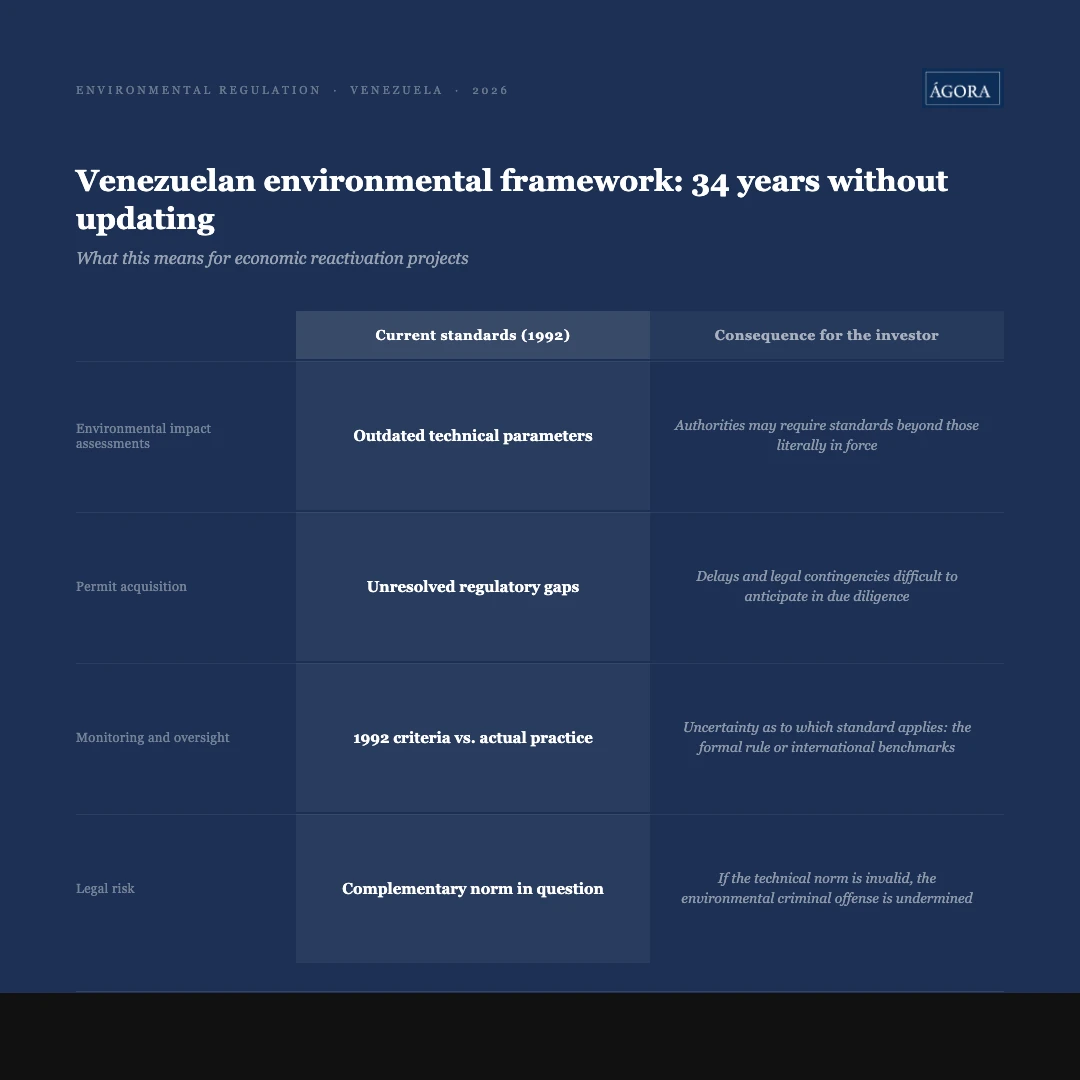
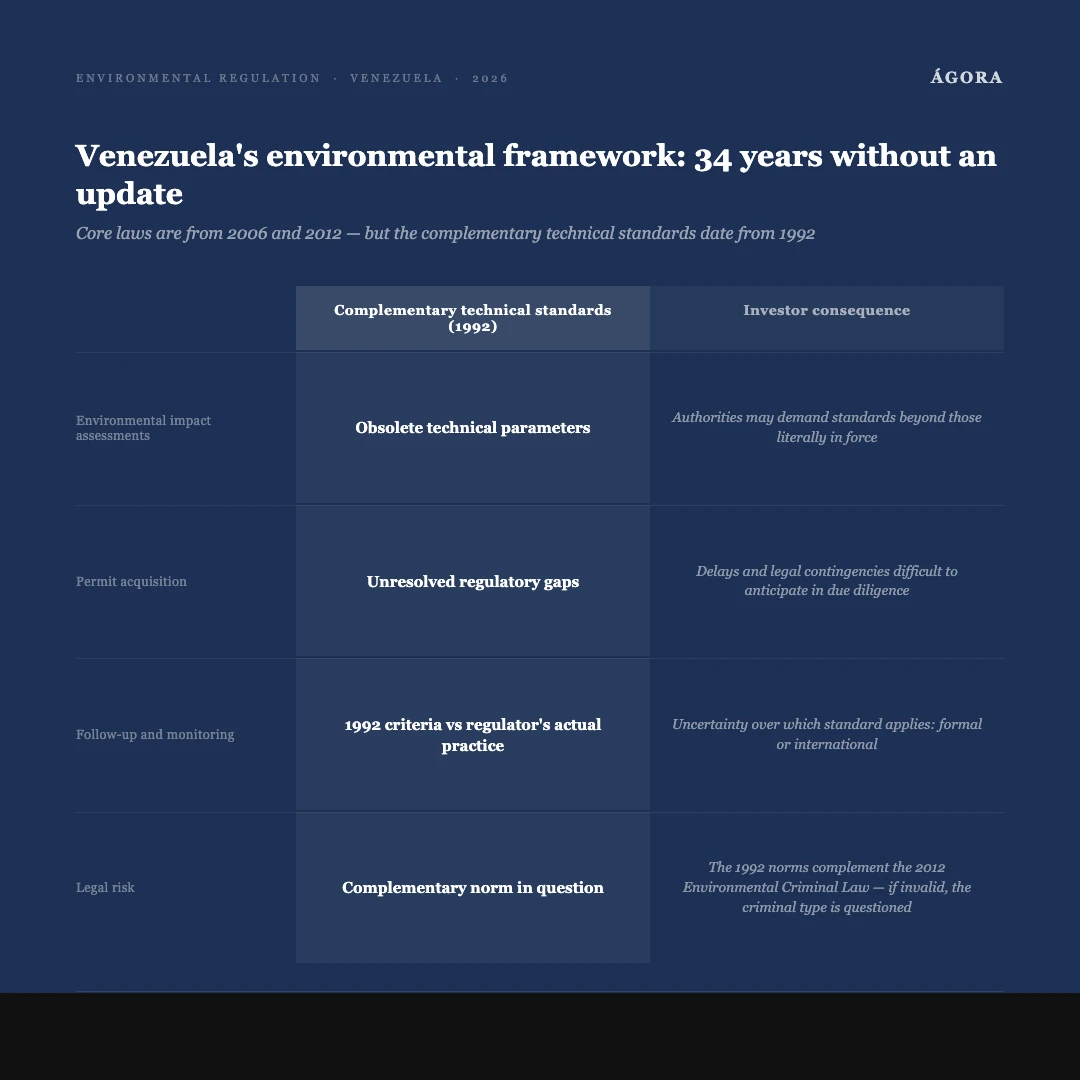
fix(insights): correct environmental law chronology in bilingual article
Align the ES/EN environmental insight with the correct legal timeline by updating references to the 2012 Environmental Criminal Law and repeal context, and refresh both infographic assets to match the corrected copy.

diff --git a/content/insights/venezuela-economic-revival-environmental-regulation.md b/content/insights/venezuela-economic-revival-environmental-regulation.md
@@ -4,7 +4,7 @@ seoTitle: "Venezuela Economic Revival and Environmental Regulation | Ágora Abog
 excerpt: "Reactivation plans in oil, mining, and power hinge on environmental permits and technical standards that are often decades old. That gap is not academic—it is a concrete legal and regulatory risk for investors."
 seoDescription: "Why Venezuela’s aging environmental technical standards create regulatory uncertainty for hydrocarbons, mining, and energy projects—and what investors should plan for."
 date: "2026-05-04"
-lastUpdated: "2026-05-04"
+lastUpdated: "2026-05-05"
 lang: "en"
 slug: "venezuela-economic-revival-environmental-regulation"
 translationSlug: "venezuela-reactivacion-economica-marco-regulatorio-ambiental"
@@ -31,7 +31,7 @@ ogImage: "/assets/practices/enviromental-natural-resources.jpeg"
 
 Venezuela is moving forward with plans to reactivate its strategic sectors: oil and gas, mining, and energy generation and distribution. The question that few ask out loud is this: can these projects be implemented in a predictable, legally sound environment under a clear and technically current regulatory framework?
 
-The honest answer, today, is incomplete. The environmental regulatory framework currently in force in Venezuela is over 30 years old in key respects. The technical standards that complement the Environmental Criminal Law were published in 1992. The scientific and technological landscape of that era is not the landscape of 2026. For any investor evaluating a project in Venezuela, that gap is not an academic detail—it is a concrete legal risk.
+The honest answer, today, is incomplete. The environmental regulatory framework currently in force in Venezuela is over 30 years old. The technical standards that complement the Environmental Criminal Law were published in 1992. The scientific and technological landscape of that era is not the landscape of 2026. For any investor evaluating a project in Venezuela, that gap is not an academic detail—it is a concrete legal risk.
 
 Our [environmental and natural resources practice](/practices/environmental) routinely supports permitting, due diligence, and compliance strategy for projects in regulated sectors.
 
@@ -39,7 +39,7 @@ Our [environmental and natural resources practice](/practices/environmental) rou
 
 ## The current legal framework and its limitations
 
-- Venezuela’s environmental framework rests primarily on two pillars: the **Organic Environmental Law (2006)** and the **Environmental Criminal Law (1992)**. The former establishes the requirements and parameters that must be met by those carrying out activities capable of degrading the environment, with administrative penalties for non-compliance. The latter criminalizes conduct that violates provisions on environmental conservation, protection, and improvement.
+- Venezuela’s environmental framework rests primarily on two pillars: the **Organic Environmental Law (2006)** (which repealed the 1976 law) and the **Environmental Criminal Law (2012)** (which repealed the 1992 law). The former establishes the requirements and parameters that must be met by those carrying out activities capable of degrading the environment, with administrative penalties for non-compliance. The latter criminalizes conduct that violates provisions on environmental conservation, protection, and improvement.
 
 - Most environmental crimes are defined through the **referral technique**, whereby criminal provisions are complemented by reference to norms of primarily technical content. The Environmental Criminal Law requires that such norms have the status of a law, decree, or resolution, and that they include within themselves all the elements necessary to complete the crime—without a second referral being permitted. In other words, the complementary norm may not refer to another norm of the same nature. If those complementary norms are obsolete or invalid, the criminal provision itself is called into question.
 
@@ -70,7 +70,7 @@ Because in Venezuela, investment opportunity and regulatory risk are two sides o
 ## Frequently asked questions
 
 **What are the two main pillars of Venezuela’s environmental framework?**  
-They are the Organic Environmental Law (2006), which sets administrative requirements and sanctions for environmentally harmful activities, and the Environmental Criminal Law (1992), which criminalizes conduct that violates environmental conservation and protection rules.
+They are the Organic Environmental Law (2006, which repealed the 1976 law), which sets administrative requirements and sanctions for environmentally harmful activities, and the Environmental Criminal Law (2012, which repealed the 1992 law), which criminalizes conduct that violates environmental conservation and protection rules.
 
 **Why do “obsolete” technical standards create legal risk?**  
 Many environmental offenses are completed by reference to technical complementary norms. If those norms are outdated, incomplete, or disputed, the scope of criminal and administrative exposure becomes harder to predict.

diff --git a/content/insights/venezuela-reactivacion-economica-marco-regulatorio-ambiental.md b/content/insights/venezuela-reactivacion-economica-marco-regulatorio-ambiental.md
@@ -4,7 +4,7 @@ seoTitle: "Reactivación económica y marco regulatorio ambiental en Venezuela |
 excerpt: "Los planes de reactivación en hidrocarburos, minería y energía dependen de permisos ambientales y normas técnicas que, en buena parte, datan de hace décadas. Esa brecha no es un detalle académico: es un riesgo jurídico y regulatorio concreto para el inversionista."
 seoDescription: "Por qué las normas técnicas ambientales envejecidas en Venezuela generan incertidumbre regulatoria en proyectos de hidrocarburos, minería y energía—y qué debe anticipar el inversionista."
 date: "2026-05-04"
-lastUpdated: "2026-05-04"
+lastUpdated: "2026-05-05"
 lang: "es"
 slug: "venezuela-reactivacion-economica-marco-regulatorio-ambiental"
 translationSlug: "venezuela-economic-revival-environmental-regulation"
@@ -39,11 +39,11 @@ En nuestra práctica de [medio ambiente y recursos naturales](/practices/environ
 
 ## El marco legal vigente y sus límites
 
-- El marco ambiental venezolano descansa sobre dos pilares principales: la **Ley Orgánica del Ambiente de 2006** y la **Ley Penal del Ambiente de 1992**. La primera establece los requisitos y parámetros que deben cumplir quienes realicen actividades capaces de degradar el ambiente, con sanciones administrativas ante su incumplimiento. La segunda tipifica como delitos las conductas que violan las disposiciones relativas a la conservación, defensa y mejoramiento del ambiente.
+- El marco ambiental venezolano descansa sobre dos pilares principales: la **Ley Orgánica del Ambiente de 2006** (que derogó la ley de 1976) y la **Ley Penal del Ambiente de 2012** (que derogó la ley de 1992). La primera establece los requisitos y parámetros que deben cumplir quienes realicen actividades capaces de degradar el ambiente, con sanciones administrativas ante su incumplimiento. La segunda tipifica como delitos las conductas que violan las disposiciones relativas a la conservación, defensa y mejoramiento del ambiente.
 
 - La mayoría de los delitos ambientales se tipifican mediante la técnica del **reenvío** a normas complementarias de contenido principalmente técnico. La Ley Penal del Ambiente establece que dichas normas deben tener rango de ley, decreto o resolución, e incluir en sí mismas todos los elementos necesarios para complementar el tipo penal, sin que sea posible un segundo reenvío; es decir, la norma complementaria no puede remitirse a otra norma de igual naturaleza. Si esa norma complementaria es obsoleta o inválida, el tipo penal queda en entredicho.
 
-- Al promulgarse la Ley Penal del Ambiente en 1992, el legislador ordenó publicar en 90 días las normas técnicas entonces vigentes, elevándolas a rango de decreto. Esa tarea se cumplió, con cambios más formales que sustanciales. En años posteriores, algunas normas fueron individualmente revisadas y actualizadas, pero la mayoría permanece sin modificación alguna.
+- Al promulgarse la Ley Penal del Ambiente de 1992, el legislador ordenó publicar en 90 días las normas técnicas entonces vigentes, elevándolas a rango de decreto. Esa tarea se cumplió, con cambios más formales que sustanciales. En años posteriores, algunas normas fueron individualmente revisadas y actualizadas, pero la mayoría permanece sin modificación alguna.
 
 ## ¿Por qué esto importa para los proyectos de hoy?
 
@@ -70,7 +70,7 @@ Porque en Venezuela, la oportunidad de inversión y el riesgo regulatorio son do
 ## Preguntas frecuentes
 
 **¿Cuáles son los dos pilares principales del marco ambiental venezolano?**  
-La Ley Orgánica del Ambiente (2006), que fija requisitos y sanciones administrativas frente a actividades degradantes, y la Ley Penal del Ambiente (1992), que tipifica delitos contra la conservación y el mejoramiento del ambiente.
+La Ley Orgánica del Ambiente (2006, que derogó la de 1976), que fija requisitos y sanciones administrativas frente a actividades degradantes, y la Ley Penal del Ambiente (2012, que derogó la de 1992), que tipifica delitos contra la conservación y el mejoramiento del ambiente.
 
 **¿Por qué las normas técnicas “obsoletas” generan riesgo jurídico?**  
 Buena parte de los delitos ambientales se completa mediante reenvío a normas complementarias de carácter técnico. Si esas normas están desactualizadas, son incompletas o se discute su validez, el alcance de la exposición penal y administrativa se vuelve más difícil de anticipar.
